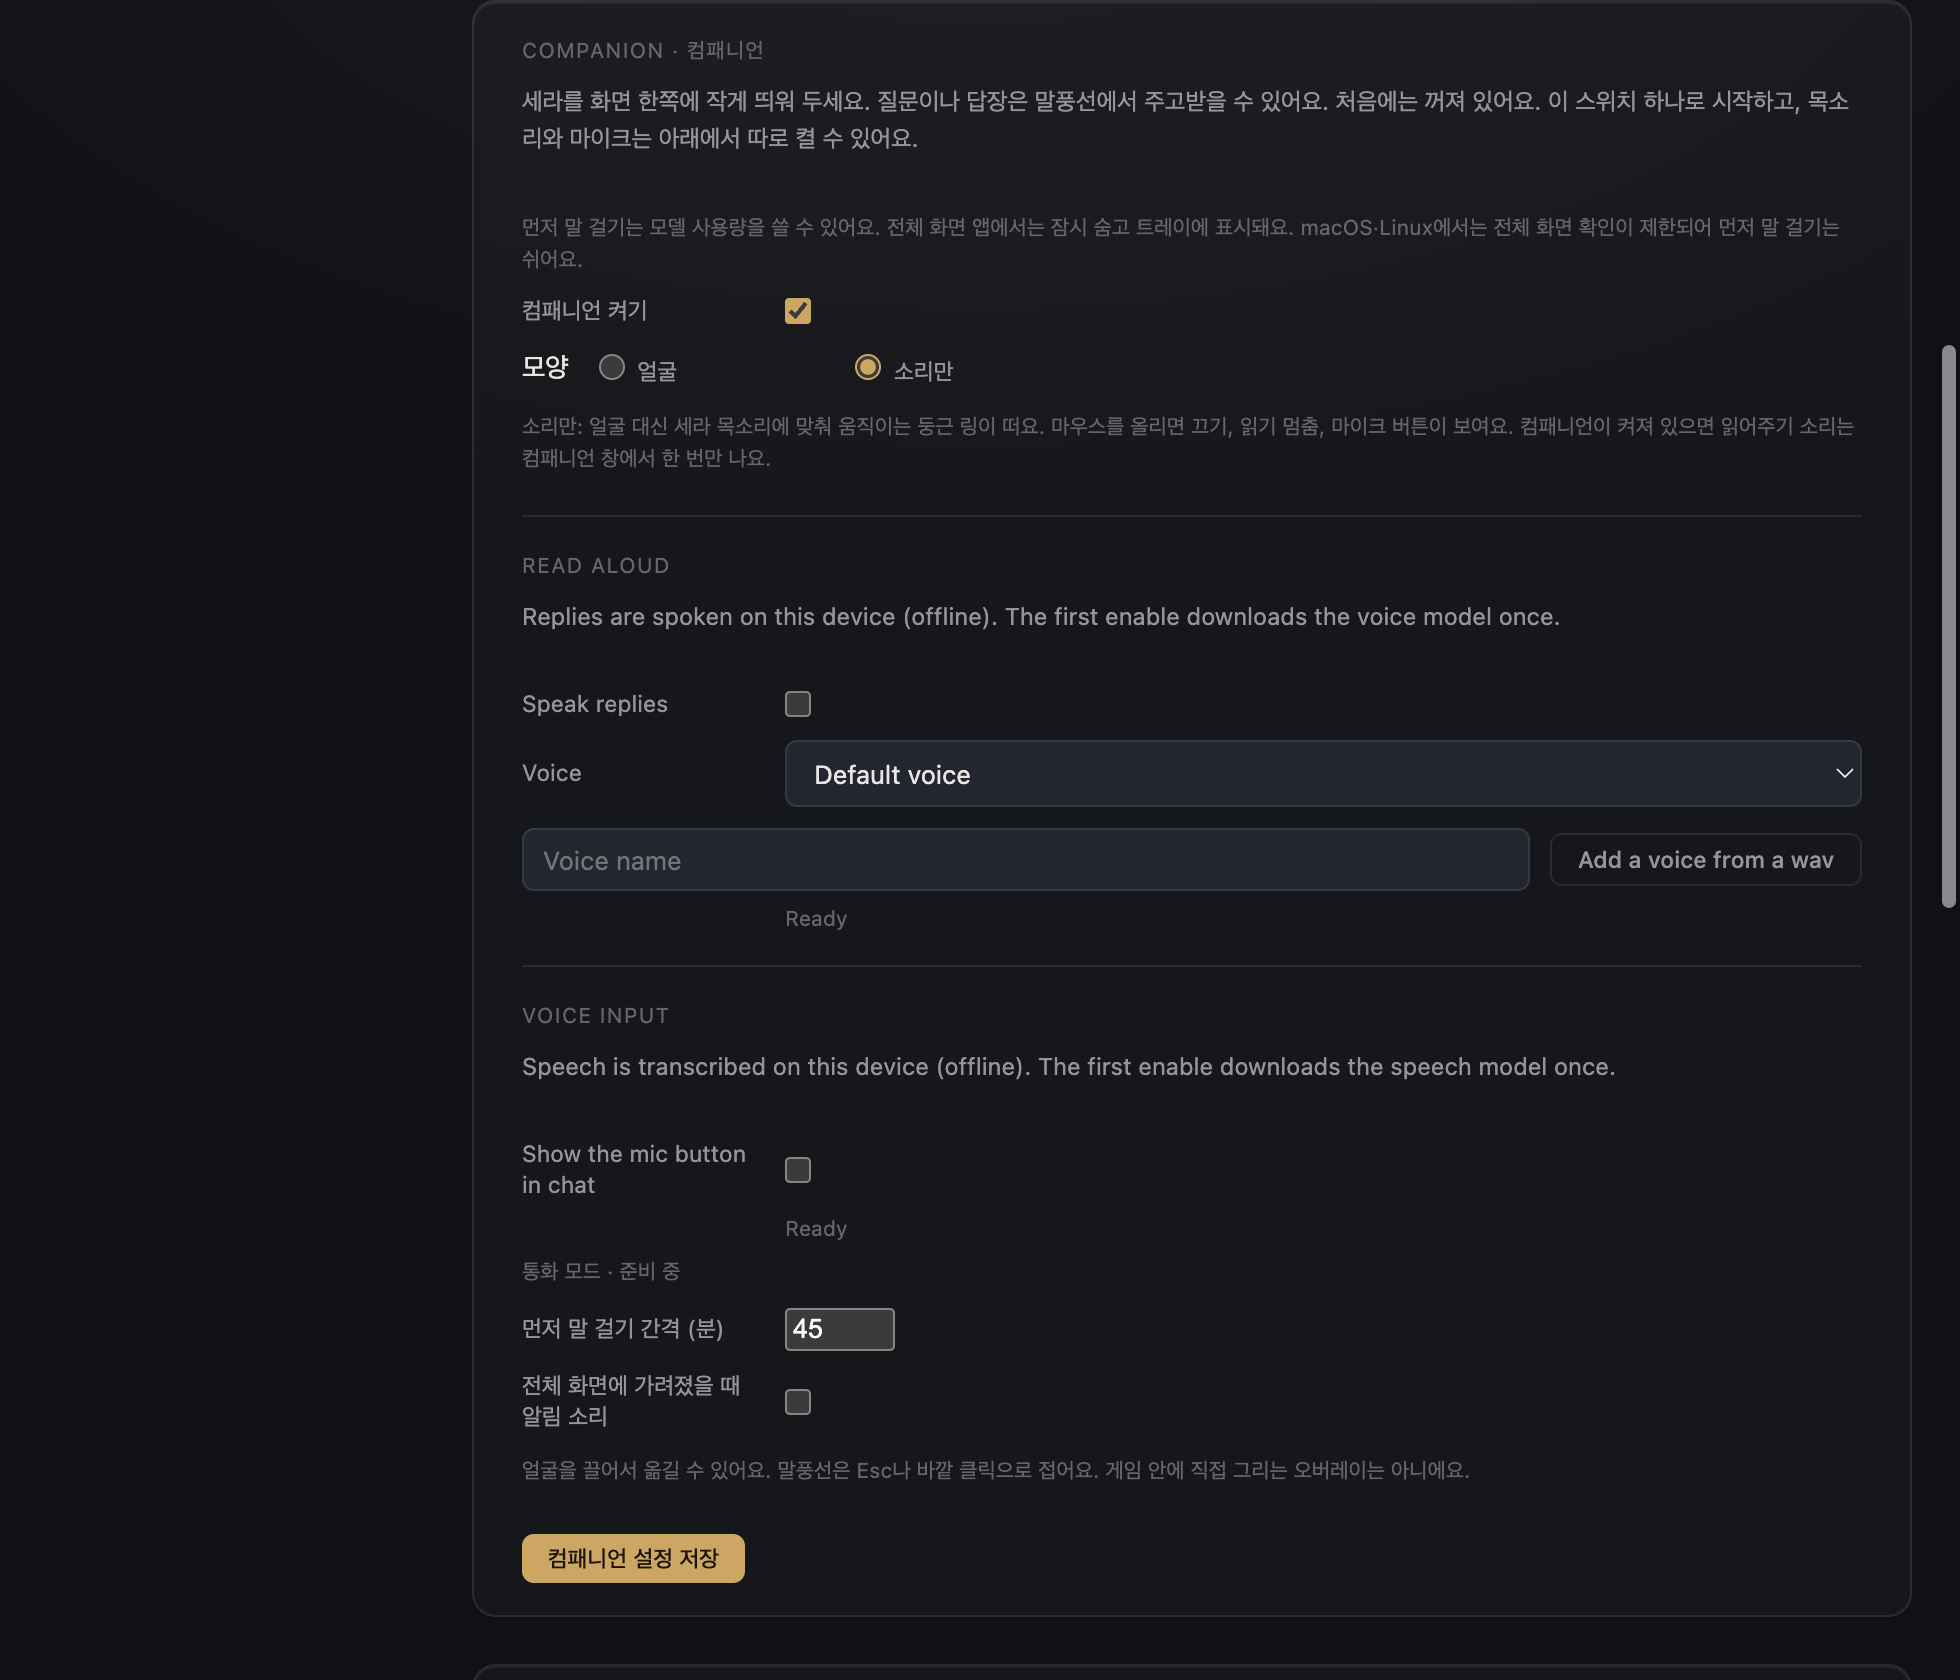
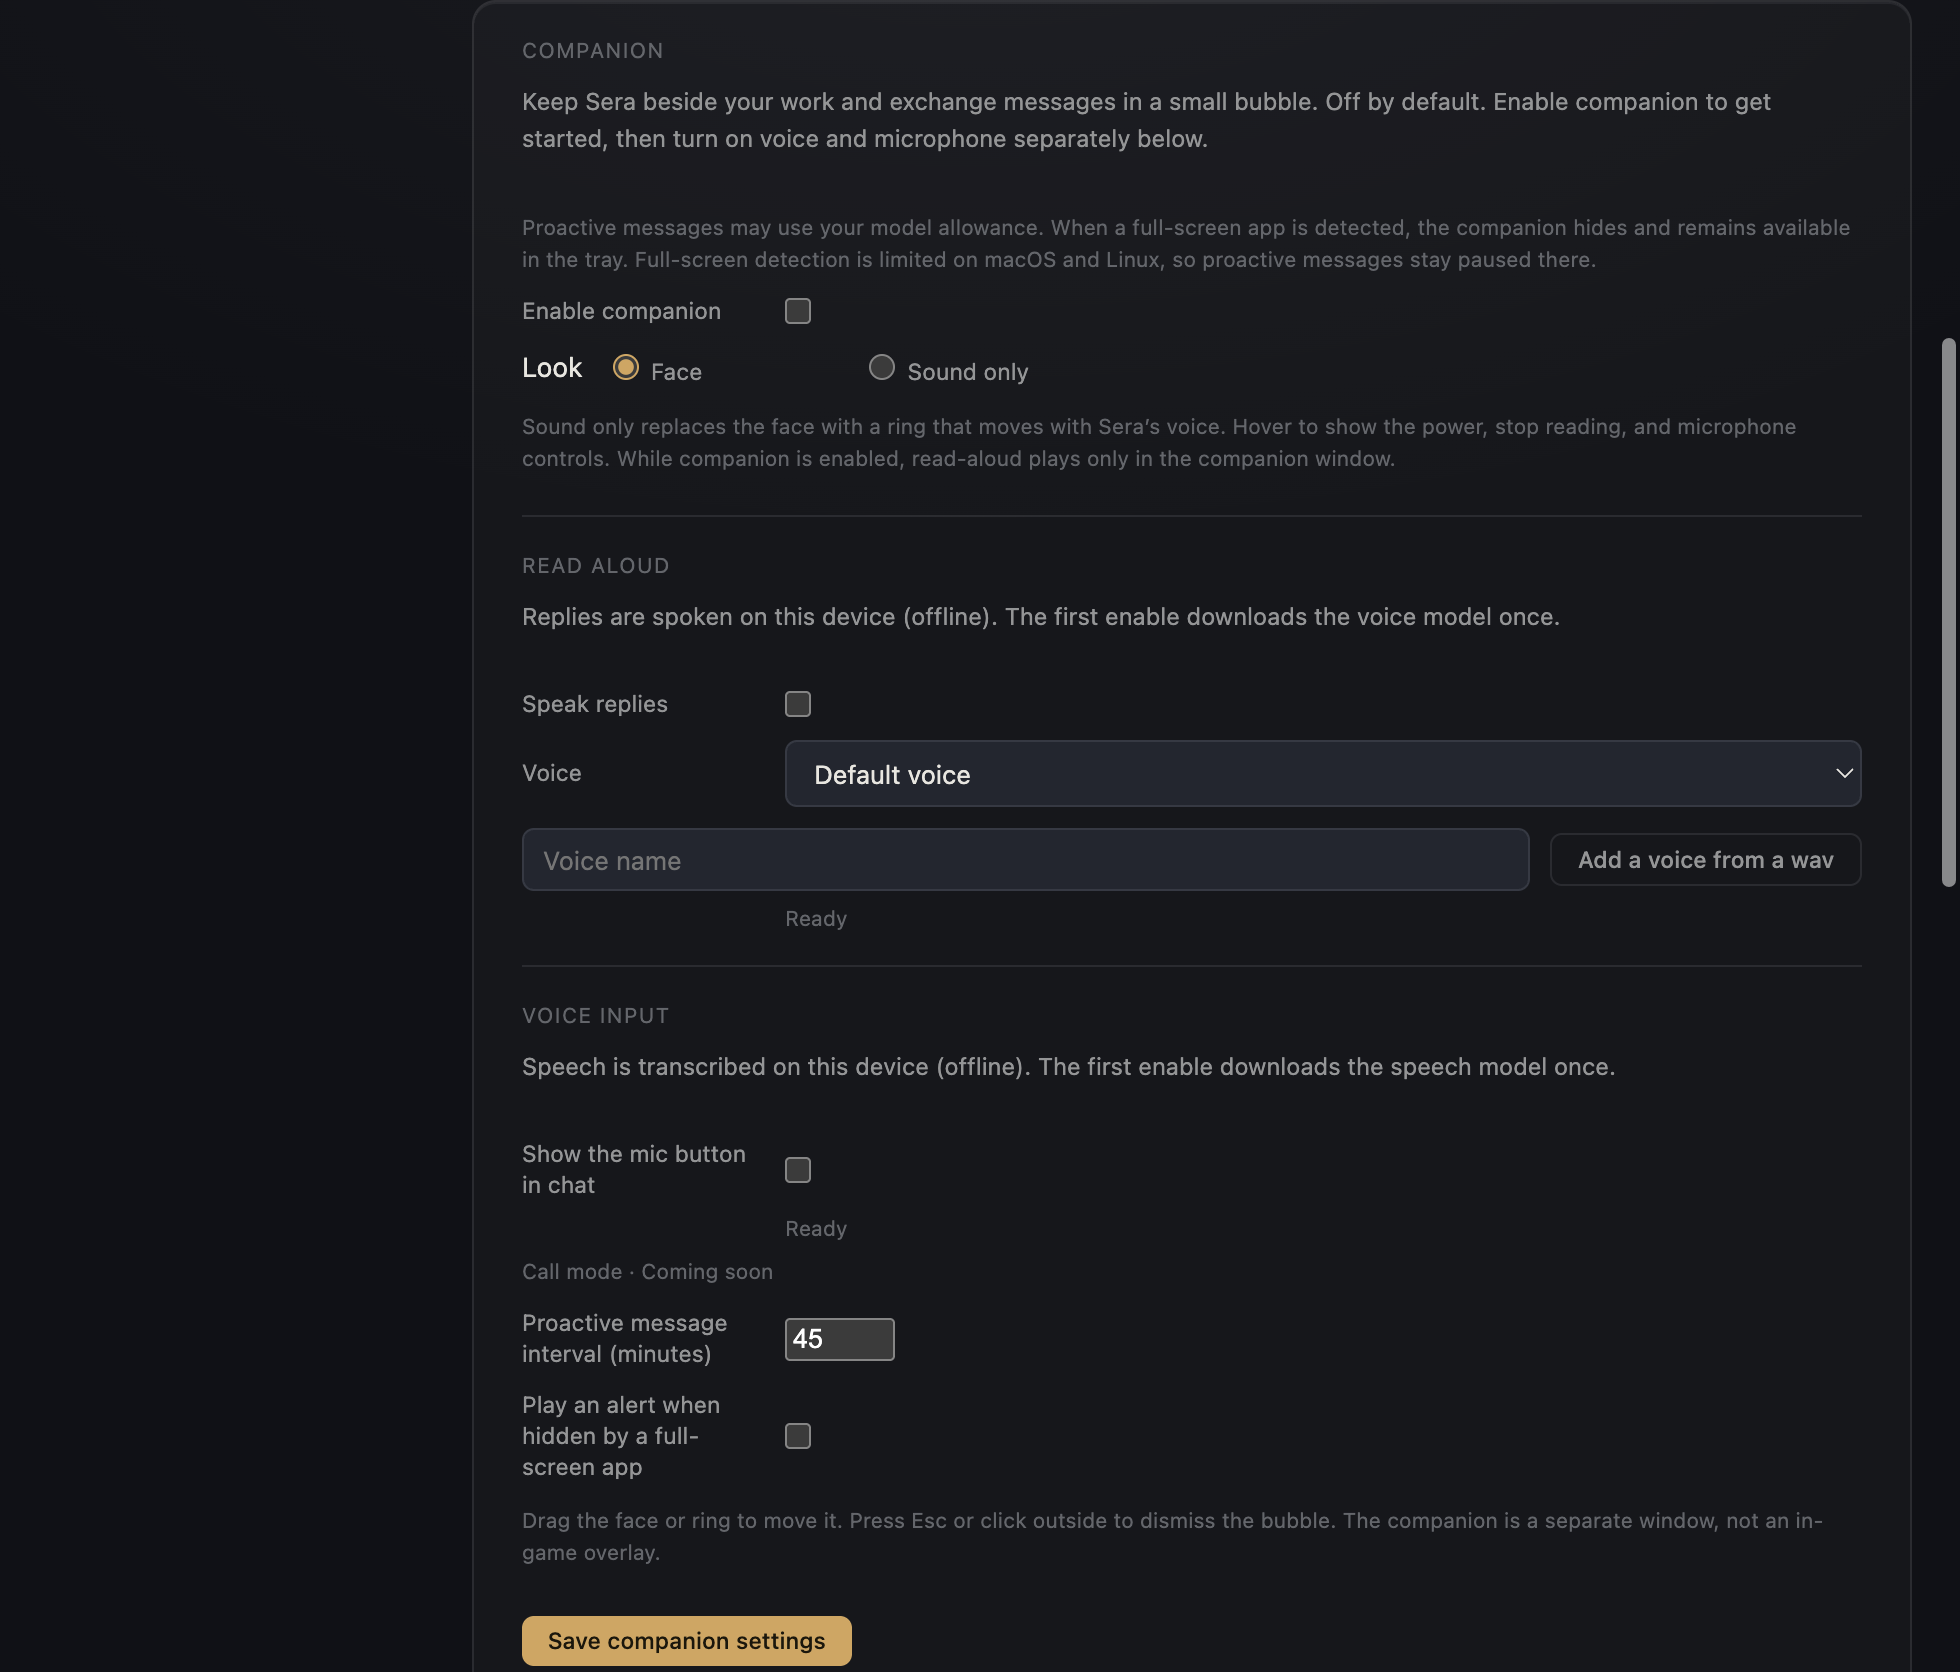
companion: use English throughout the Settings group
Translate labels, helper copy, and save/load status messages without changing keys, defaults, behavior, or companion-window dialogue. Refresh the ready-state Electron screenshot. npm test: 132 passed, 0 failed, 4 skipped in 92.7s.

diff --git a/onboarding/public/settings.html b/onboarding/public/settings.html
@@ -91,22 +91,22 @@
         </div>
 
         <div class="category" id="set-companion">
-          <div class="category-label">Companion · 컴패니언</div>
-          <p class="subtitle">세라를 화면 한쪽에 작게 띄워 두세요. 질문이나 답장은 말풍선에서 주고받을 수 있어요. 처음에는 꺼져 있어요. 이 스위치 하나로 시작하고, 목소리와 마이크는 아래에서 따로 켤 수 있어요.</p>
-          <p class="field-hint">먼저 말 걸기는 모델 사용량을 쓸 수 있어요. 전체 화면 앱에서는 잠시 숨고 트레이에 표시돼요. macOS·Linux에서는 전체 화면 확인이 제한되어 먼저 말 걸기는 쉬어요.</p>
-          <div class="agent-control-row"><label for="set-companion-enabled">컴패니언 켜기</label><input type="checkbox" id="set-companion-enabled" /></div>
-          <div class="agent-control-row" role="radiogroup" aria-labelledby="set-companion-variant-label"><span id="set-companion-variant-label">모양</span>
-            <span class="control-pair"><label><input type="radio" name="set-companion-variant" id="set-companion-variant-face" value="face" checked /> 얼굴</label>
-            <label><input type="radio" name="set-companion-variant" id="set-companion-variant-orb" value="orb" /> 소리만</label></span></div>
-          <p class="field-hint">소리만: 얼굴 대신 세라 목소리에 맞춰 움직이는 둥근 링이 떠요. 마우스를 올리면 끄기, 읽기 멈춤, 마이크 버튼이 보여요. 컴패니언이 켜져 있으면 읽어주기 소리는 컴패니언 창에서 한 번만 나요.</p>
+          <div class="category-label">Companion</div>
+          <p class="subtitle">Keep Sera beside your work and exchange messages in a small bubble. Off by default. Enable companion to get started, then turn on voice and microphone separately below.</p>
+          <p class="field-hint">Proactive messages may use your model allowance. When a full-screen app is detected, the companion hides and remains available in the tray. Full-screen detection is limited on macOS and Linux, so proactive messages stay paused there.</p>
+          <div class="agent-control-row"><label for="set-companion-enabled">Enable companion</label><input type="checkbox" id="set-companion-enabled" /></div>
+          <div class="agent-control-row" role="radiogroup" aria-labelledby="set-companion-variant-label"><span id="set-companion-variant-label">Look</span>
+            <span class="control-pair"><label><input type="radio" name="set-companion-variant" id="set-companion-variant-face" value="face" checked /> Face</label>
+            <label><input type="radio" name="set-companion-variant" id="set-companion-variant-orb" value="orb" /> Sound only</label></span></div>
+          <p class="field-hint">Sound only replaces the face with a ring that moves with Sera’s voice. Hover to show the power, stop reading, and microphone controls. While companion is enabled, read-aloud plays only in the companion window.</p>
           <div id="set-companion-voice"></div>
           <div id="set-companion-mic"></div>
           <!-- Call mode placeholder: no setting key exists at branch base 0c5ace2. Wire the row only after the call-mode implementation lands. -->
-          <p class="field-hint">통화 모드 · 준비 중</p>
-          <div class="agent-control-row"><label for="set-companion-interval">먼저 말 걸기 간격 (분)</label><input type="number" id="set-companion-interval" min="5" max="1440" value="45" /></div>
-          <div class="agent-control-row"><label for="set-companion-sound">전체 화면에 가려졌을 때 알림 소리</label><input type="checkbox" id="set-companion-sound" /></div>
-          <p class="field-hint">얼굴을 끌어서 옮길 수 있어요. 말풍선은 Esc나 바깥 클릭으로 접어요. 게임 안에 직접 그리는 오버레이는 아니에요.</p>
-          <div class="step-actions"><button id="set-companion-save">컴패니언 설정 저장</button><span id="set-companion-status" role="status"></span></div>
+          <p class="field-hint">Call mode · Coming soon</p>
+          <div class="agent-control-row"><label for="set-companion-interval">Proactive message interval (minutes)</label><input type="number" id="set-companion-interval" min="5" max="1440" value="45" /></div>
+          <div class="agent-control-row"><label for="set-companion-sound">Play an alert when hidden by a full-screen app</label><input type="checkbox" id="set-companion-sound" /></div>
+          <p class="field-hint">Drag the face or ring to move it. Press Esc or click outside to dismiss the bubble. The companion is a separate window, not an in-game overlay.</p>
+          <div class="step-actions"><button id="set-companion-save">Save companion settings</button><span id="set-companion-status" role="status"></span></div>
         </div>
 
         <!-- Autonomous cycle (v0.0.6). The only setting on this page that

diff --git a/onboarding/public/js/companion-settings.js b/onboarding/public/js/companion-settings.js
@@ -11,14 +11,14 @@
     if (s.intervalMinutes) $('interval').value = s.intervalMinutes
     if (s.sound !== undefined) $('sound').checked = !!s.sound
     $('save').disabled = !s.available
-    $('status').textContent = s.available ? '' : '앱에서만 사용할 수 있어요.'
+    $('status').textContent = s.available ? '' : 'Available in the desktop app only.'
   }
-  async function save(body, okText = '저장했어요.') {
+  async function save(body, okText = 'Saved.') {
     try { render(await post(body)); $('status').textContent = okText }
-    catch { $('status').textContent = '저장하지 못했어요. 다시 시도해 주세요.' }
+    catch { $('status').textContent = 'Could not save settings. Please try again.' }
   }
   try { render(await window.api('/api/companion')) }
-  catch { $('status').textContent = '설정을 불러오지 못했어요.' }
+  catch { $('status').textContent = 'Could not load settings.' }
   $('enabled').onchange = async () => { $('enabled').disabled = true; try { await save({ enabled: $('enabled').checked }) } finally { $('enabled').disabled = false } }
   for (const r of radios()) r.onchange = () => { if (r.checked) save({ variant: r.value }) }
   $('save').onclick = async () => {
